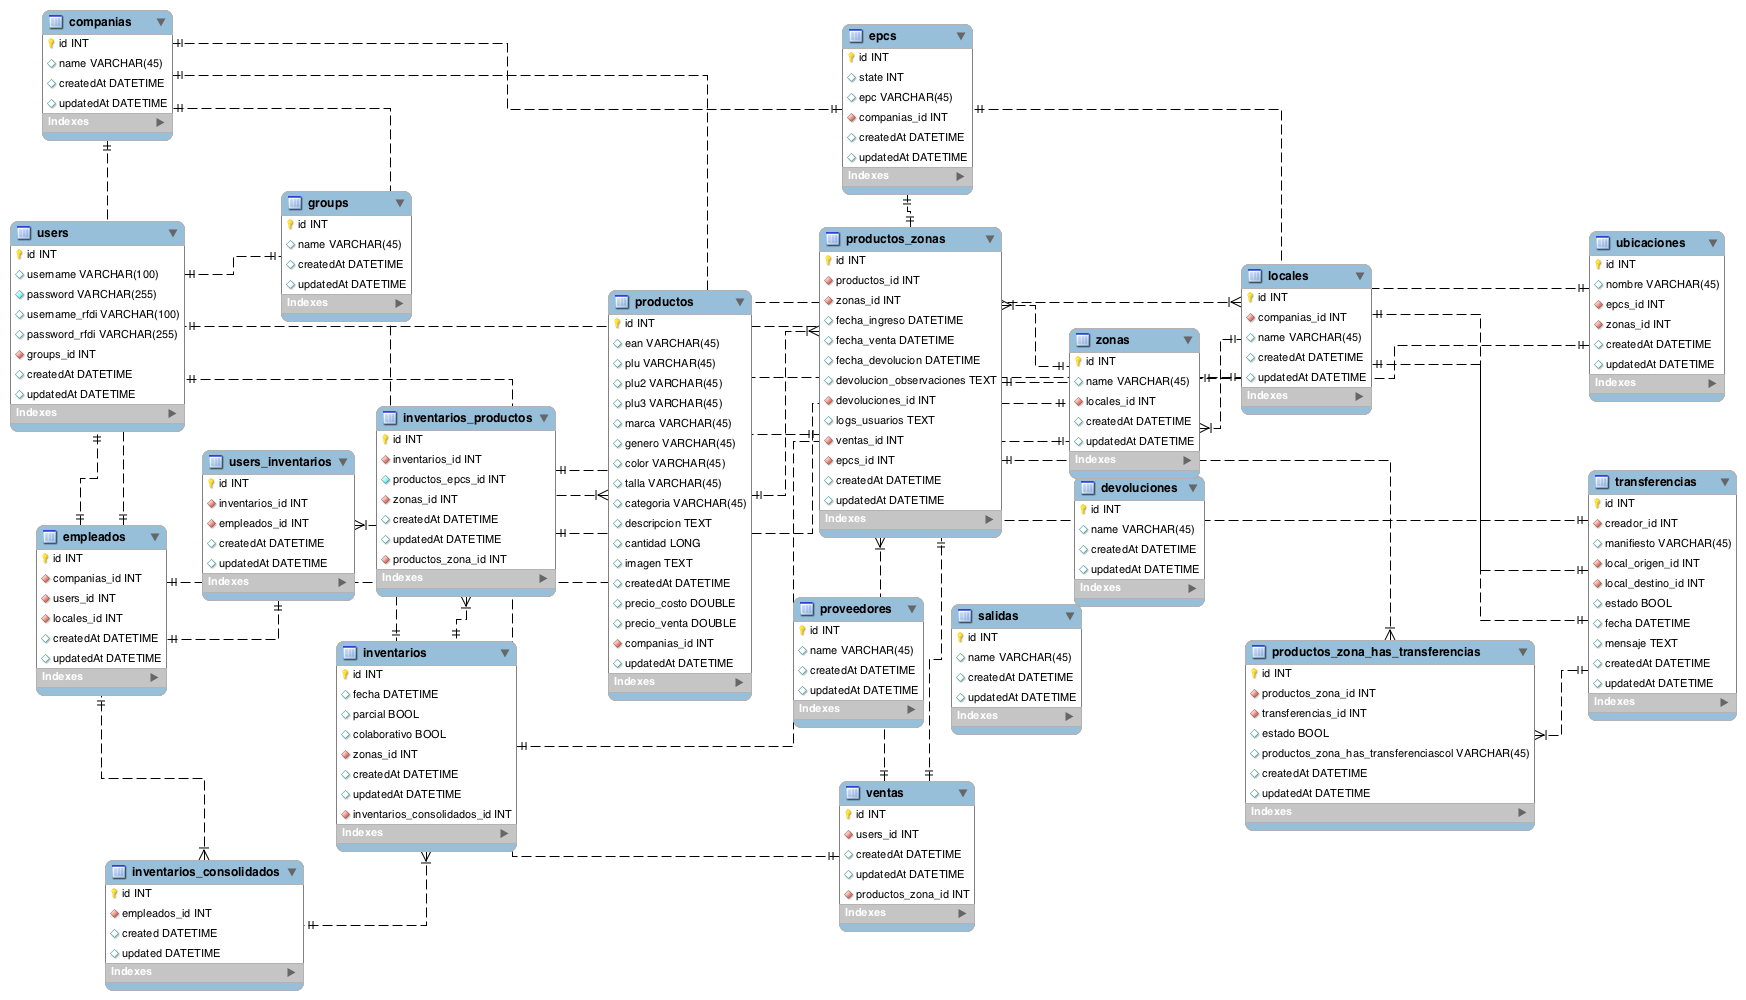
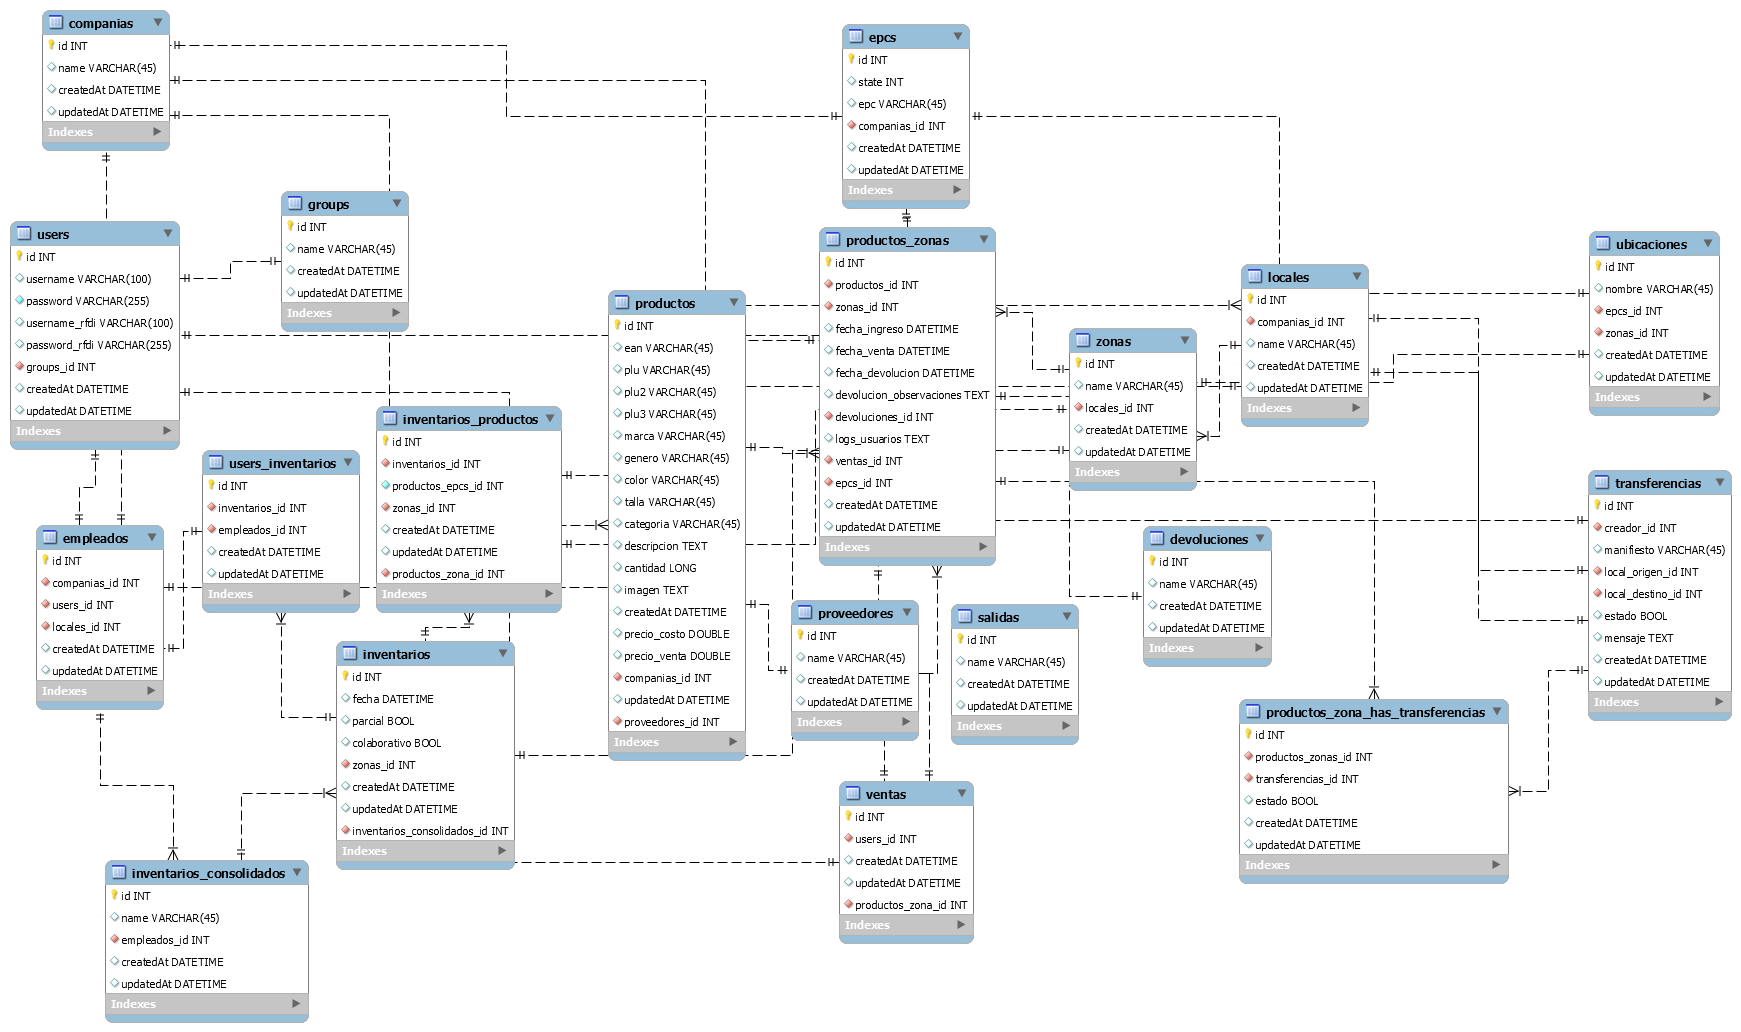
Se implementan transferencias

diff --git a/back-end/api/controllers/UsersController.js b/back-end/api/controllers/UsersController.js
@@ -84,70 +84,79 @@ module.exports = {
   },
   sync: async function (req, res) {
 
-    let epcs, productos, productos_zona, zonas, locales;
-    //Obtengo los epcs
-    epcs = await Epcs.find({
-      where: {
-        companias_id: req.empleado.companias_id.id,
-        createdAt: (req.body.last_update ? {'>': req.body.last_update} : {'>': '2018-01-01'})
-      }
-    })
-      .populate("companias_id");
-    // Obtengo los productos de la compania
-    productos = await Productos.find({
-      where:{
-        companias_id: req.empleado.companias_id.id,
-        updatedAt: (req.body.last_update ? {'>=': req.body.last_update} : {'>': '2018-01-01'})
-      }
-    })
-      .populate("companias_id");
-
     try {
-      //Obtengo las zonas
-      zonas = await Zonas.find({
+      let epcs, productos, productos_zona, zonas, locales;
+      //Obtengo los epcs
+      epcs = await Epcs.find({
         where: {
-          locales_id: req.empleado.locales_id.id
+          companias_id: req.empleado.companias_id.id,
+          createdAt: (req.body.last_update ? {'>': req.body.last_update} : {'>': '2018-01-01'})
         }
-      });
-      // Obtengo los productos_zona de la compania por zona
-      productos_zona = await ProductosZona.find({
+      })
+        .populate("companias_id");
+      // Obtengo los productos de la compania
+      productos = await Productos.find({
         where: {
-          zonas_id: _.map(zonas, 'id'),
+          companias_id: req.empleado.companias_id.id,
           updatedAt: (req.body.last_update ? {'>=': req.body.last_update} : {'>': '2018-01-01'})
         }
       })
-        .populate('productos_id')
-        .populate('zonas_id')
-        .populate('devoluciones_id')
-        .populate('epcs_id');
-    } catch (e) {
-      console.log(e);
-    }
+        .populate("companias_id");
 
-    // Obtengo los locales de la compania
-        locales = await Locales.find({
-          where:{
-            companias_id: req.empleado.companias_id.id,
+      try {
+        //Obtengo las zonas
+        zonas = await Zonas.find({
+          where: {
+            locales_id: req.empleado.locales_id.id
+          }
+        });
+        // Obtengo los productos_zona de la compania por zona
+        productos_zona = await ProductosZona.find({
+          where: {
+            zonas_id: _.map(zonas, 'id'),
             updatedAt: (req.body.last_update ? {'>=': req.body.last_update} : {'>': '2018-01-01'})
           }
         })
-          .populate("companias_id");
+          .populate('productos_id')
+          .populate('zonas_id')
+          .populate('devoluciones_id')
+          .populate('epcs_id');
+      } catch (e) {
+        console.error(e);
+      }
 
-    let things = {
-      code: '',
-      data:
-        {
-          epcs: epcs,
-          productos: productos,
-          productos_zona: productos_zona,
-          zonas: zonas,
-          locales: locales
-        },
-      error: null,
-      propio: false,
-      bd: false
-    };
-    return res.generalAnswer(things);
+      // Obtengo los locales de la compania
+      locales = await Locales.find({
+        where: {
+          companias_id: req.empleado.companias_id.id,
+          updatedAt: (req.body.last_update ? {'>=': req.body.last_update} : {'>': '2018-01-01'})
+        }
+      })
+        .populate("companias_id");
+
+      let things = {
+        code: '',
+        data:
+          {
+            epcs: epcs,
+            productos: productos,
+            productos_zona: productos_zona,
+            zonas: zonas,
+            locales: locales
+          },
+        error: null,
+        propio: false,
+        bd: false
+      };
+      return res.generalAnswer(things);
+    } catch (e) {
+      let things = {
+        code: 'General error',
+        data: {},
+        error: e
+      };
+      return res.generalAnswer(things);
+    }
 
   }
 

diff --git a/back-end/api/controllers/TransferenciasController.js b/back-end/api/controllers/TransferenciasController.js
@@ -144,7 +144,7 @@ module.exports = {
     let transferencias, things;
 
     try {
-      transferencias = await  Transferencias.findOne(
+      transferencias = await  Transferencias.find(
         tipo === 'entrada' ? {'local_origen_id': local_id} : {'local_destino_id': local_id}
       )
         .populate('productos')
@@ -179,11 +179,9 @@ module.exports = {
           {'local_destino_id': local_id}
         ]
       })
-        .populate('productos',{
-          estado:0
-        })
+        .populate('productos')
         .populate('local_origen_id')
-        .populate('local_destino_id');;
+        .populate('local_destino_id');
 
       things = {code: 'Ok', data: transferencias};
       return res.generalAnswer(things);

diff --git a/back-end/api/responses/generalAnswer.js b/back-end/api/responses/generalAnswer.js
@@ -1,7 +1,6 @@
 
 module.exports = function generalAnswer(inputs) {
 
-  console.log("Error");
   // Get access to `req` and `res`
   let req = this.req;
   let res = this.res;
